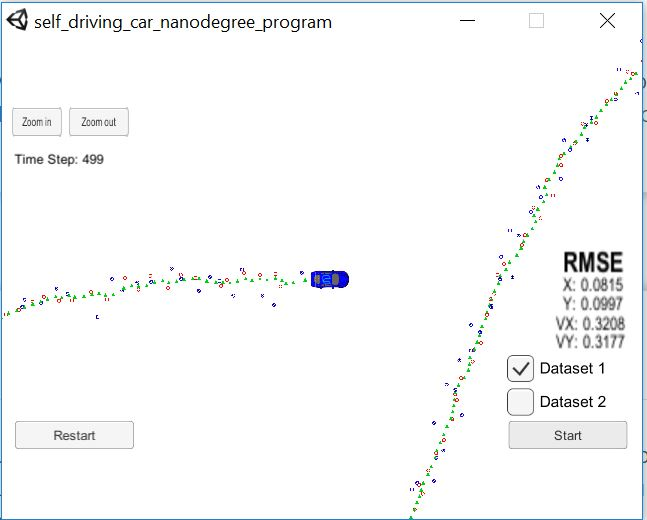
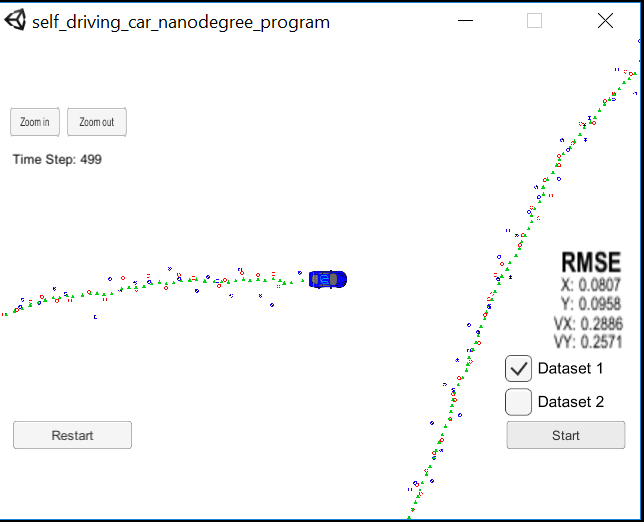
Improving code after review. Moving not modified parts to ctor.

diff --git a/src/ukf.cpp b/src/ukf.cpp
@@ -7,7 +7,7 @@ using Eigen::MatrixXd;
 using Eigen::VectorXd;
 using std::vector;
 
-#define LOG_DEBUG
+//#define LOG_DEBUG
 
 #ifdef LOG_DEBUG
 #include <iostream>
@@ -30,15 +30,21 @@ UKF::UKF() : is_initialized_(false), n_x_(5), n_aug_(7), lambda_(3-n_aug_) {
 
   // initial state vector
   x_ = VectorXd(n_x_);
+  x_.fill(1.0);
 
   // initial covariance matrix
   P_ = MatrixXd(n_x_, n_x_);
+  P_ << 1, 0, 0, 0, 0,
+        0, 1, 0, 0, 0,
+        0, 0, 1, 0, 0,
+        0, 0, 0, 1, 0,
+        0, 0, 0, 0, 1;
 
   // Process noise standard deviation longitudinal acceleration in m/s^2
-  std_a_ = 3;//30
+  std_a_ = 3;
 
   // Process noise standard deviation yaw acceleration in rad/s^2
-  std_yawdd_ = 3;//30
+  std_yawdd_ = 0.5;
   
   //DO NOT MODIFY measurement noise values below these are provided by the sensor manufacturer.
   // Laser measurement noise standard deviation position1 in m
@@ -62,13 +68,26 @@ UKF::UKF() : is_initialized_(false), n_x_(5), n_aug_(7), lambda_(3-n_aug_) {
   // set weights
   double weight_0 = lambda_/(lambda_+n_aug_);
   weights_(0) = weight_0;
-  for (int i=1; i<2*n_aug_+1; i++) {  //2n+1 weights
+  for (int i = 1; i < 2*n_aug_+1; ++i) {  //2n+1 weights
     double weight = 0.5/(n_aug_+lambda_);
     weights_(i) = weight;
   }
 
   // sigma point matrix
   Xsig_pred_ = MatrixXd(n_x_, 2*n_aug_+1);
+
+  sqrtLNAX_ = sqrt(lambda_+n_aug_);
+
+  // Measurement noise covariance matrix
+  R_lidar_ = MatrixXd(2, 2);
+  R_lidar_ << std_laspx_*std_laspx_, 0,
+              0, std_laspy_*std_laspy_;
+
+  //add measurement noise covariance matrix
+  R_radar_ = MatrixXd(3, 3);
+  R_radar_ << std_radr_*std_radr_, 0, 0,
+              0, std_radphi_*std_radphi_, 0,
+              0, 0, std_radrd_*std_radrd_;
 
   DEBUG("UKF ctor end");
 }
@@ -80,24 +99,10 @@ UKF::~UKF() {}
  * either radar or laser.
  */
 void UKF::ProcessMeasurement(MeasurementPackage meas_package) {
-  //DEBUG("UKF::ProcessMeasurement start");
+  DEBUG("UKF::ProcessMeasurement start");
   if(!is_initialized_) {
 
-    //DEBUG("UKF::ProcessMeasurement not init start");
-
-    x_.fill(1.0);
-    P_.fill(1.0);
-    x_ << 1, 1, 1, 1, 0.1;
-    /*P_ << 0.15, 0, 0, 0, 0,
-         0, 0.15, 0, 0, 0,
-         0,    0, 1, 0, 0,
-         0,    0, 0, 1, 0,
-         0,    0, 0, 0, 1;*/
-    P_ << 1, 0, 0, 0, 0,
-          0, 1, 0, 0, 0,
-          0, 0, 1, 0, 0,
-          0, 0, 0, 1, 0,
-          0, 0, 0, 0, 1;
+    DEBUG("UKF::ProcessMeasurement not initialized");
 
     if (use_radar_ && meas_package.sensor_type_ == MeasurementPackage::RADAR) {
       // x0 = px
@@ -111,16 +116,16 @@ void UKF::ProcessMeasurement(MeasurementPackage meas_package) {
       x_(1) = meas_package.raw_measurements_(0) * sin(meas_package.raw_measurements_(1));
     }
 
-    //DEBUG("UKF::ProcessMeasurement 01");
+    DEBUG("UKF::ProcessMeasurement 01");
 
     time_us_ = meas_package.timestamp_;
 
     is_initialized_ = true;
-    //DEBUG("UKF::ProcessMeasurement not init end");
+    DEBUG("UKF::ProcessMeasurement not init end");
     return;
   }
 
-  //DEBUG("UKF::ProcessMeasurement start");
+  DEBUG("UKF::ProcessMeasurement start");
 
   //compute the time elapsed between the current and previous measurements
   float dt = (meas_package.timestamp_ - time_us_) / 1000000.0; //dt - expressed in seconds
@@ -138,7 +143,7 @@ void UKF::ProcessMeasurement(MeasurementPackage meas_package) {
   cout << "x_ = " << x_ << endl;
   cout << "P_ = " << P_ << endl;
 
-  //DEBUG("UKF::ProcessMeasurement end");
+  DEBUG("UKF::ProcessMeasurement end");
 }
 
 /**
@@ -151,7 +156,7 @@ void UKF::Prediction(double delta_t) {
   Estimate the object's location. Modify the state
   vector, x_. Predict sigma points, the state, and the state covariance matrix.
   */
-  //DEBUG("UKF::Prediction start");
+  DEBUG("UKF::Prediction start");
   
   ////////
   // Generate augmented sigma points
@@ -174,16 +179,16 @@ void UKF::Prediction(double delta_t) {
   P_aug.topLeftCorner(5, 5) = P_;
   P_aug(5, 5) = std_a_*std_a_;
   P_aug(6, 6) = std_yawdd_*std_yawdd_;
-  
+
   //create square root matrix
   MatrixXd L = P_aug.llt().matrixL();
-  double sqrtLNAX = sqrt(lambda_+n_aug_);
+
   //create augmented sigma points
   Xsig_aug.col(0)  = x_aug;
   for (int i = 0; i< n_aug_; i++)
   {
-    Xsig_aug.col(i+1)       = x_aug + sqrtLNAX * L.col(i);
-    Xsig_aug.col(i+1+n_aug_) = x_aug - sqrtLNAX * L.col(i);
+    Xsig_aug.col(i+1)       = x_aug + sqrtLNAX_ * L.col(i);
+    Xsig_aug.col(i+1+n_aug_) = x_aug - sqrtLNAX_ * L.col(i);
   }
 
   ////////
@@ -191,13 +196,13 @@ void UKF::Prediction(double delta_t) {
   for (int i = 0; i < 2*n_aug_+1; i++)
   {
     //extract values for better readability
-    double p_x = Xsig_aug(0,i);
-    double p_y = Xsig_aug(1,i);
-    double v = Xsig_aug(2,i);
-    double yaw = Xsig_aug(3,i);
-    double yawd = Xsig_aug(4,i);
-    double nu_a = Xsig_aug(5,i);
-    double nu_yawdd = Xsig_aug(6,i);
+    const double p_x = Xsig_aug(0,i);
+    const double p_y = Xsig_aug(1,i);
+    const double v = Xsig_aug(2,i);
+    const double yaw = Xsig_aug(3,i);
+    const double yawd = Xsig_aug(4,i);
+    const double nu_a = Xsig_aug(5,i);
+    const double nu_yawdd = Xsig_aug(6,i);
 
     //predicted state values
     double px_p, py_p;
@@ -236,13 +241,13 @@ void UKF::Prediction(double delta_t) {
   // Predict state mean and covariance
   //predicted state mean
   x_.fill(0.0);
-  for (int i = 0; i < 2*n_aug_+1; i++) {  //iterate over sigma points
+  for (int i = 0; i < 2*n_aug_+1; ++i) {  //iterate over sigma points
     x_ = x_ + weights_(i) * Xsig_pred_.col(i);
   }
 
   //predicted state covariance matrix
   P_.fill(0.0);
-  for (int i = 0; i < 2 * n_aug_ + 1; i++) {  //iterate over sigma points
+  for (int i = 0; i < 2 * n_aug_ + 1; ++i) {  //iterate over sigma points
 
     // state difference
     VectorXd x_diff = Xsig_pred_.col(i) - x_;
@@ -253,7 +258,7 @@ void UKF::Prediction(double delta_t) {
     P_ = P_ + weights_(i) * x_diff * x_diff.transpose() ;
   }
 
-  //DEBUG("UKF::Prediction end");
+  DEBUG("UKF::Prediction end");
 }
 
 /**
@@ -267,19 +272,19 @@ void UKF::UpdateLidar(MeasurementPackage meas_package) {
 
   You'll also need to calculate the lidar NIS.
   */
-  //DEBUG("UKF::UpdateLidar start");
+  DEBUG("UKF::UpdateLidar start");
   //set measurement dimension, lidar can measure poisition x and y
-  int n_z = 2;
+  const int n_z = 2;
 
   //create matrix for sigma points in measurement space
   MatrixXd Zsig = MatrixXd(n_z, 2*n_aug_+1);
 
   //transform sigma points into measurement space
-  for (int i = 0; i < 2*n_aug_+1; i++) {  //2n+1 simga points
+  for (int i = 0; i < 2*n_aug_+1; ++i) {  //2n+1 simga points
 
     // extract values for better readibility
-    double p_x = Xsig_pred_(0,i);
-    double p_y = Xsig_pred_(1,i);
+    const double p_x = Xsig_pred_(0,i);
+    const double p_y = Xsig_pred_(1,i);
 
     // measurement model
     Zsig(0,i) = p_x;
@@ -289,14 +294,14 @@ void UKF::UpdateLidar(MeasurementPackage meas_package) {
   //mean predicted measurement
   VectorXd z_pred = VectorXd(n_z);
   z_pred.fill(0.0);
-  for (int i=0; i < 2*n_aug_+1; i++) {
+  for (int i=0; i < 2*n_aug_+1; ++i) {
       z_pred = z_pred + weights_(i) * Zsig.col(i);
   }
 
   //predicted measurement covariance
   MatrixXd S = MatrixXd(n_z,n_z);
   S.fill(0.0);
-  for (int i = 0; i < 2 * n_aug_ + 1; i++) {  //2n+1 simga points
+  for (int i = 0; i < 2 * n_aug_ + 1; ++i) {  //2n+1 simga points
     //residual
     VectorXd z_diff = Zsig.col(i) - z_pred;
 
@@ -307,20 +312,15 @@ void UKF::UpdateLidar(MeasurementPackage meas_package) {
     S = S + weights_(i) * z_diff * z_diff.transpose();
   }
 
-  //add measurement noise covariance matrix
-  MatrixXd R = MatrixXd(n_z, n_z);
-  R <<    std_laspx_*std_laspx_, 0,
-          0, std_laspy_*std_laspy_;
-  S = S + R;
+  S = S + R_lidar_;
 
-  //DEBUG("UKF::UpdateLidar UpdateState");
+  DEBUG("UKF::UpdateLidar UpdateState");
 
   ///////
   // Update state
 
   // vector for incoming radar measurement
   VectorXd z = VectorXd(n_z);
-  //z << std_laspx_, std_laspy_;
   z << meas_package.raw_measurements_;
 
   //create matrix for cross correlation Tc
@@ -328,7 +328,7 @@ void UKF::UpdateLidar(MeasurementPackage meas_package) {
 
   //calculate cross correlation matrix
   Tc.fill(0.0);
-  for (int i = 0; i < 2* n_aug_+1; i++) {  //2n+1 simga points
+  for (int i = 0; i < 2* n_aug_+1; ++i) {  //2n+1 simga points
 
     //residual
     VectorXd z_diff = Zsig.col(i) - z_pred;
@@ -346,7 +346,7 @@ void UKF::UpdateLidar(MeasurementPackage meas_package) {
   }
 
   //Kalman gain K;
-  MatrixXd K = Tc * S.inverse();
+  const MatrixXd K = Tc * S.inverse();
 
   //residual
   VectorXd z_diff = z - z_pred;
@@ -359,7 +359,7 @@ void UKF::UpdateLidar(MeasurementPackage meas_package) {
   x_ = x_ + K * z_diff;
   P_ = P_ - K*S*K.transpose();
 
-  //DEBUG("UKF::UpdateLidar end");
+  DEBUG("UKF::UpdateLidar end");
 }
 
 /**
@@ -373,24 +373,24 @@ void UKF::UpdateRadar(MeasurementPackage meas_package) {
 
   You'll also need to calculate the radar NIS.
   */
-  //DEBUG("UKF::UpdateRadar start");
+  DEBUG("UKF::UpdateRadar start");
   //set measurement dimension, radar can measure r, phi, and r_dot
-  int n_z = 3;
+  const int n_z = 3;
 
   //create matrix for sigma points in measurement space
   MatrixXd Zsig = MatrixXd(n_z, 2*n_aug_+1);
 
   //transform sigma points into measurement space
-  for (int i = 0; i < 2*n_aug_+1; i++) {  //2n+1 simga points
+  for (int i = 0; i < 2*n_aug_+1; ++i) {  //2n+1 simga points
 
     // extract values for better readibility
-    double p_x = Xsig_pred_(0,i);
-    double p_y = Xsig_pred_(1,i);
-    double v  = Xsig_pred_(2,i);
-    double yaw = Xsig_pred_(3,i);
+    const double p_x = Xsig_pred_(0,i);
+    const double p_y = Xsig_pred_(1,i);
+    const double v  = Xsig_pred_(2,i);
+    const double yaw = Xsig_pred_(3,i);
 
-    double v1 = cos(yaw)*v;
-    double v2 = sin(yaw)*v;
+    const double v1 = cos(yaw)*v;
+    const double v2 = sin(yaw)*v;
 
     // measurement model
     Zsig(0,i) = sqrt(p_x*p_x + p_y*p_y);                        //r
@@ -405,14 +405,14 @@ void UKF::UpdateRadar(MeasurementPackage meas_package) {
   //mean predicted measurement
   VectorXd z_pred = VectorXd(n_z);
   z_pred.fill(0.0);
-  for (int i=0; i < 2*n_aug_+1; i++) {
+  for (int i=0; i < 2*n_aug_+1; ++i) {
       z_pred = z_pred + weights_(i) * Zsig.col(i);
   }
 
   //predicted measurement covariance
   MatrixXd S = MatrixXd(n_z,n_z);
   S.fill(0.0);
-  for (int i = 0; i < 2 * n_aug_ + 1; i++) {  //2n+1 simga points
+  for (int i = 0; i < 2*n_aug_+1; ++i) {  //2n+1 simga points
     //residual
     VectorXd z_diff = Zsig.col(i) - z_pred;
 
@@ -423,21 +423,15 @@ void UKF::UpdateRadar(MeasurementPackage meas_package) {
     S = S + weights_(i) * z_diff * z_diff.transpose();
   }
 
-  //add measurement noise covariance matrix
-  MatrixXd R = MatrixXd(n_z, n_z);
-  R <<    std_radr_*std_radr_, 0, 0,
-          0, std_radphi_*std_radphi_, 0,
-          0, 0,std_radrd_*std_radrd_;
-  S = S + R;
+  S = S + R_radar_;
 
-  //DEBUG("UKF::UpdateRadar UpdateState");
+  DEBUG("UKF::UpdateRadar UpdateState");
 
   ///////
   // Update state
 
   // vector for incoming radar measurement
   VectorXd z = VectorXd(n_z);
-  //z << std_radr_, std_radphi_, std_radrd_;
   z << meas_package.raw_measurements_;
 
   //create matrix for cross correlation Tc
@@ -445,7 +439,7 @@ void UKF::UpdateRadar(MeasurementPackage meas_package) {
 
   //calculate cross correlation matrix
   Tc.fill(0.0);
-  for (int i = 0; i < 2* n_aug_+1; i++) {  //2n+1 simga points
+  for (int i = 0; i < 2* n_aug_+1; ++i) {  //2n+1 simga points
 
     //residual
     VectorXd z_diff = Zsig.col(i) - z_pred;
@@ -476,5 +470,5 @@ void UKF::UpdateRadar(MeasurementPackage meas_package) {
   x_ = x_ + K * z_diff;
   P_ = P_ - K*S*K.transpose();
 
-  //DEBUG("UKF::UpdateRadar end");
+  DEBUG("UKF::UpdateRadar end");
 }

diff --git a/src/ukf.h b/src/ukf.h
@@ -67,6 +67,11 @@ public:
   ///* Sigma point spreading parameter
   double lambda_;
 
+  double sqrtLNAX_;
+
+  ///* Measurement noise covariance matrix
+  MatrixXd R_lidar_;
+  MatrixXd R_radar_;
 
   /**
    * Constructor

diff --git a/src/tools.cpp b/src/tools.cpp
@@ -5,7 +5,7 @@ using Eigen::VectorXd;
 using Eigen::MatrixXd;
 using std::vector;
 
-#define LOG_DEBUG
+//#define LOG_DEBUG
 
 #ifdef LOG_DEBUG
 #include <iostream>
